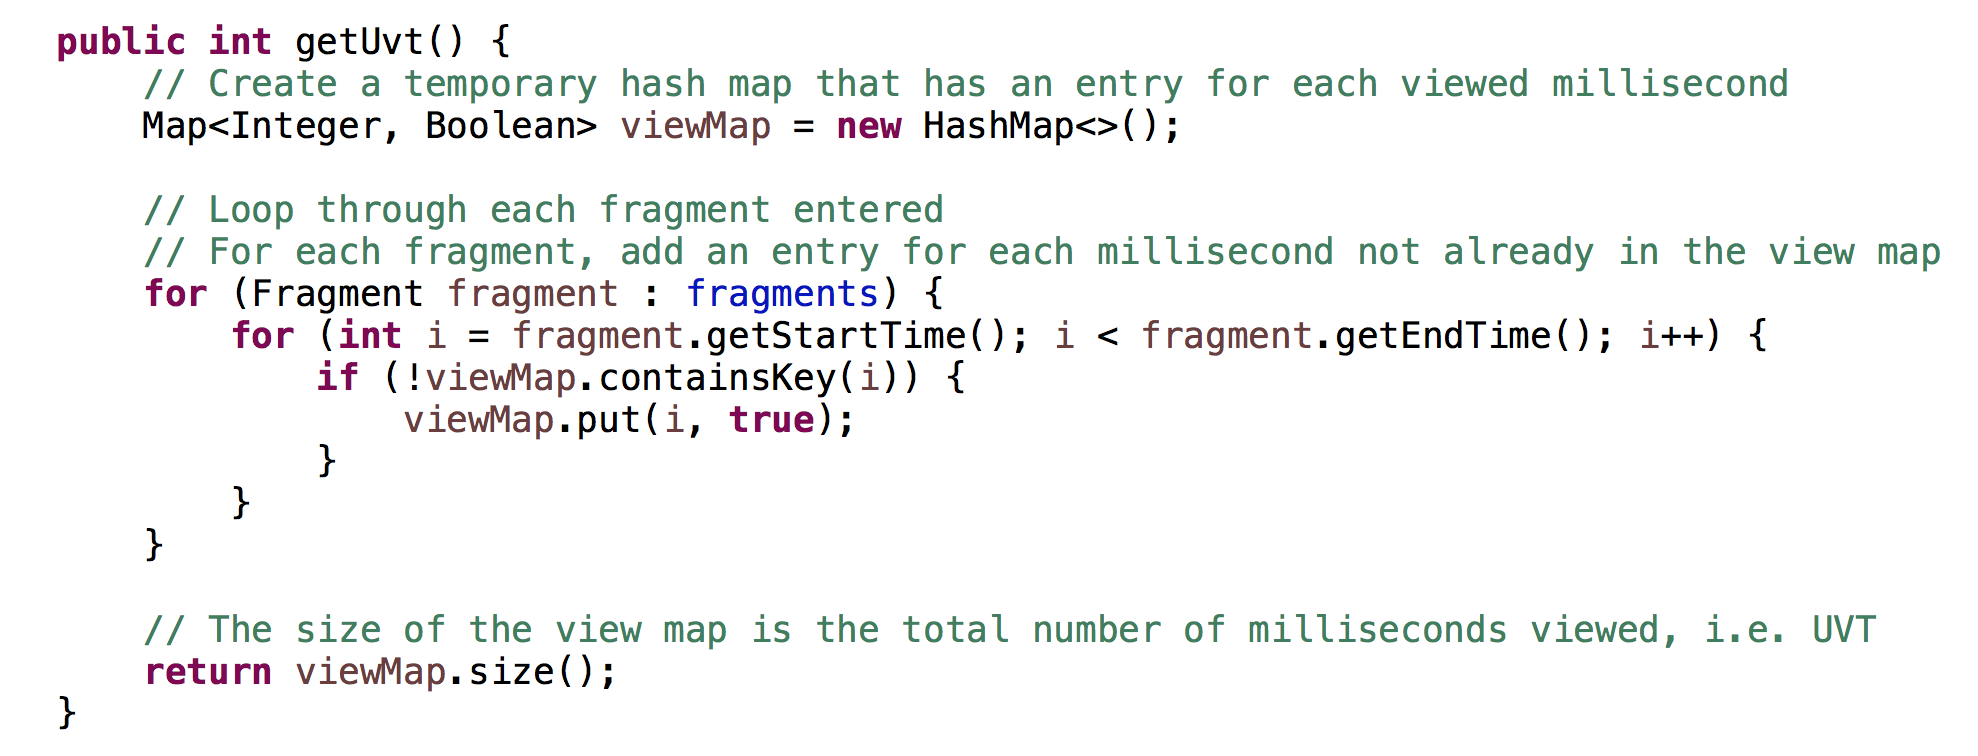
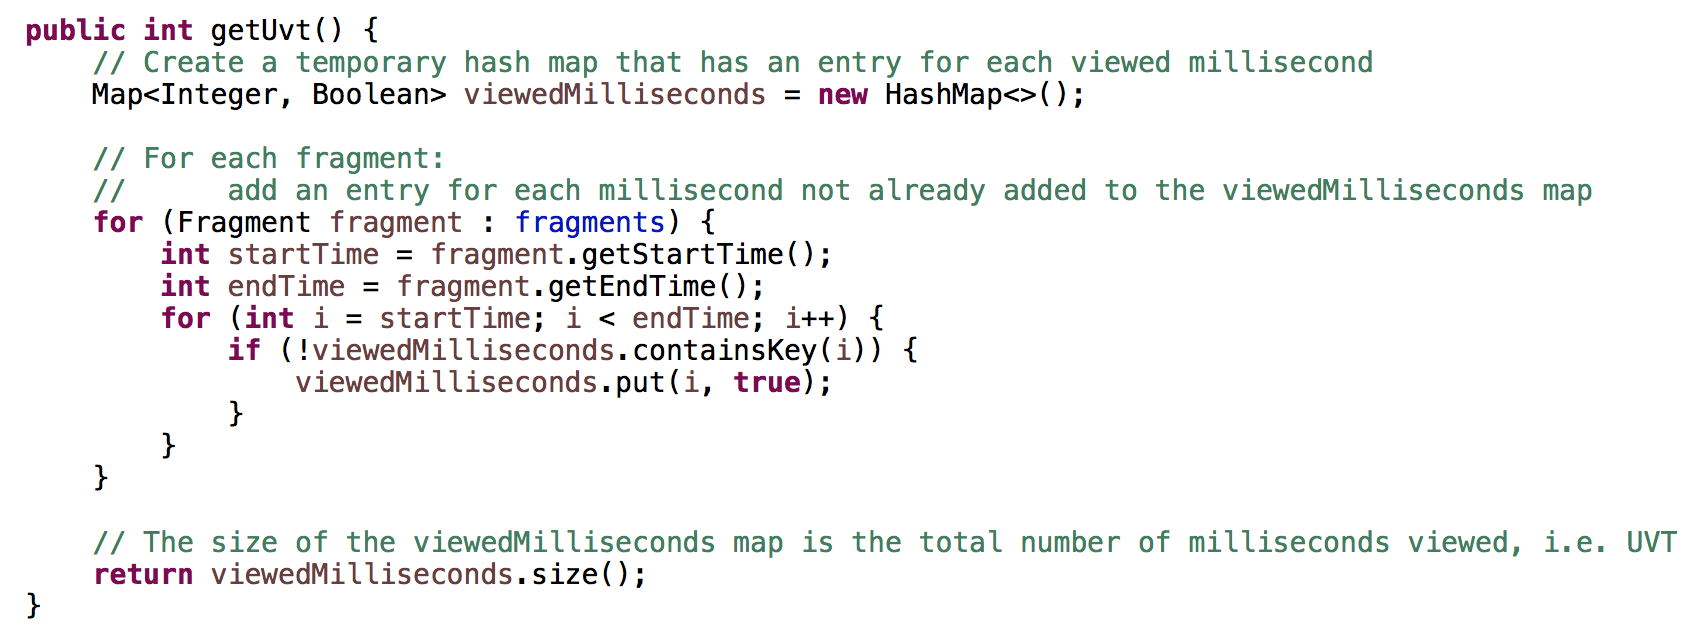
Cleaned up the UVT algorithm

diff --git a/src/main/java/com/shaundashjian/uvt/UvtCalculator.java b/src/main/java/com/shaundashjian/uvt/UvtCalculator.java
@@ -21,20 +21,22 @@ public class UvtCalculator {
 
 	public int getUvt() {
 		// Create a temporary hash map that has an entry for each viewed millisecond
-		Map<Integer, Boolean> viewMap = new HashMap<>();
+		Map<Integer, Boolean> viewedMilliseconds = new HashMap<>();
 		
-		// Loop through each fragment entered
-		// For each fragment, add an entry for each millisecond not already in the view map
+		// For each fragment:
+		// 		add an entry for each millisecond not already added to the viewedMilliseconds map
 		for (Fragment fragment : fragments) {
-			for (int i = fragment.getStartTime(); i < fragment.getEndTime(); i++) {
-				if (!viewMap.containsKey(i)) {
-					viewMap.put(i, true);
+			int startTime = fragment.getStartTime();
+			int endTime = fragment.getEndTime();
+			for (int i = startTime; i < endTime; i++) {
+				if (!viewedMilliseconds.containsKey(i)) {
+					viewedMilliseconds.put(i, true);
 				}
 			}
 		}
 		
-		// The size of the view map is the total number of milliseconds viewed, i.e. UVT
-		return viewMap.size();
+		// The size of the viewedMilliseconds map is the total number of milliseconds viewed, i.e. UVT
+		return viewedMilliseconds.size();
 	}
 
 }
